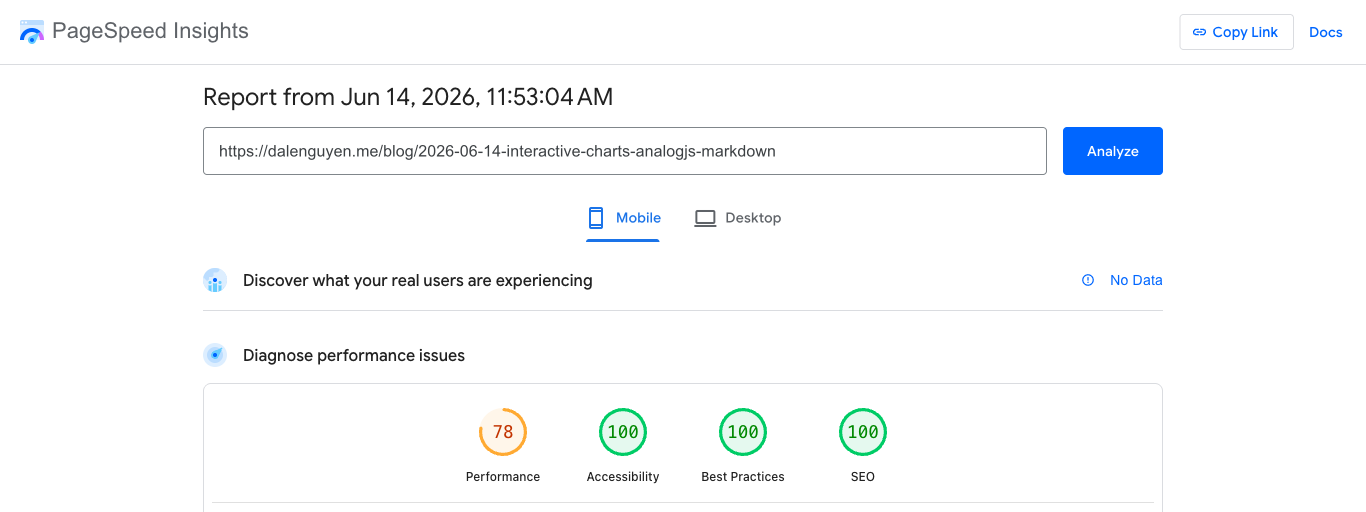
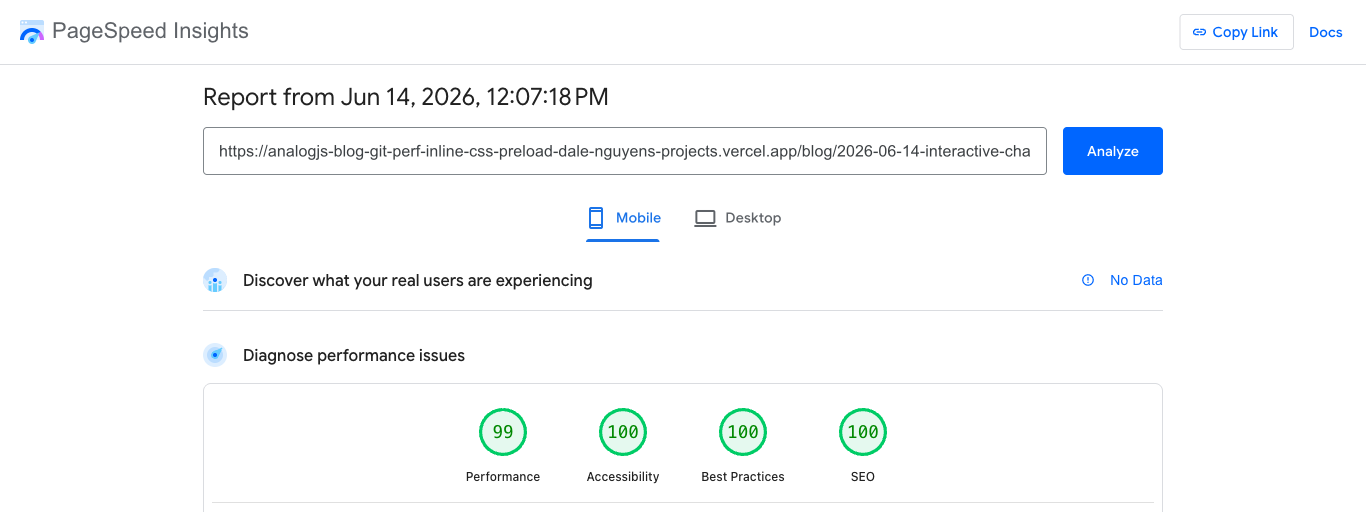
perf(blog): inline global CSS + preload LCP cover image (#170)
* perf(blog): inline global CSS + preload LCP cover image

Critical-path tuning in postRenderingHooks (no new deps):
- Inline the global stylesheet (~9 KB brotli) as a <style>, removing the only
  render-blocking CSS request — one fewer RTT before first paint on slow mobile.
  Falls back to the external <link> if the asset can't be read at prerender time.
- Preload the LCP cover image (first <picture>) in <head> so the fetch starts
  during head parse, not after the body. Prefers the WebP <source>; uses the
  <img> src for external/non-WebP covers. Only injected when a cover exists.

Verified: prerendered pages have 0 render-blocking stylesheet links + an inline
<style>; post pages carry an image preload; non-cover pages get none; the page
renders fully styled (no FOUC).

* docs(blog): mobile 99 — document the inline-CSS + image-preload round

Preview/prod confirmed mobile Performance 78 -> 99 after inlining the CSS and
preloading the LCP image (FCP 2.1s -> 0.9s, LCP 4.8s -> 1.4s). Update the mobile
after-gauge + table to 99, add the inline-CSS/preload section, refresh the CWV
table and summary, and reframe: there was no framework ceiling — the mobile gap
was a render-blocking CSS round-trip and a late-discovered image.

---------

Pull request: perf(blog): inline global CSS + preload LCP cover image
Final mobile lever after #167 (zoneless) and #168 (WebP). Prod mobile was **78**, bounded by LCP ~4.8s — driven by the render-blocking CSS request + late image discovery, not bytes.

Stepping back: the global CSS is only **~9 KB brotli** (already Tailwind-purged), so classic critical-CSS *extraction* (beasties/critters) is overkill + FOUC-risk. Instead, in `postRenderingHooks` (no new deps):
- **Inline the global stylesheet** as `<style>` — removes the only render-blocking CSS request (one fewer RTT before first paint). Falls back to the external `<link>` if the asset can't be read.
- **Preload the LCP cover image** in `<head>` (prefers the WebP `<source>`; `<img>` src for external covers) so the fetch starts during head parse.

Verified on the build: 0 render-blocking stylesheet links, inline `<style>` present, post pages carry an image preload, non-cover pages get none, page renders fully styled (no FOUC).

Will confirm the mobile LCP/Performance gain on the preview before merge.

🤖 Generated with [Claude Code](https://claude.com/claude-code)

Changed region(s): [[0.1845, 0.2812, 0.7687, 0.3125], [0.3382, 0.7812, 0.3997, 0.9062], [0.369, 0.1562, 0.4612, 0.2188]]

diff --git a/apps/blog-app/vite.config.ts b/apps/blog-app/vite.config.ts
@@ -3,11 +3,63 @@
 import analog, { type PrerenderContentFile } from '@analogjs/platform'
 import { nxViteTsPaths } from '@nx/vite/plugins/nx-tsconfig-paths.plugin'
 import { PrerenderRoute } from 'nitropack'
+import { existsSync, readFileSync } from 'node:fs'
 import { join } from 'node:path'
 import { defineConfig } from 'vite'
 import { learnManifestPlugin } from './src/plugins/learn-manifest.plugin'
 
 const learnDir = join(__dirname, '../../libs/portfolio/shared/learn')
+
+// Candidate roots that hold the built client assets at prerender time.
+const clientAssetDirs = [
+  join(__dirname, '../../dist/apps/blog-app/client'),
+  join(__dirname, '../../.vercel/output/static'),
+]
+const inlineCssCache = new Map<string, string>()
+
+function readClientAsset(href: string): string | null {
+  for (const base of clientAssetDirs) {
+    const p = join(base, href)
+    if (existsSync(p)) return readFileSync(p, 'utf-8')
+  }
+  return null
+}
+
+// Critical-path tuning applied to every prerendered page:
+//  1. Inline the global stylesheet — it's tiny (~9 KB brotli), so removing the
+//     extra render-blocking request (one RTT on slow mobile) beats keeping it
+//     external. Falls back to leaving the <link> if the asset can't be read.
+//  2. Preload the LCP cover image (first <picture>) so the browser starts the
+//     fetch during head parse instead of after reaching the <img> in the body.
+//     Prefers the WebP <source>; uses the <img> src for external/non-WebP covers.
+function tuneCriticalPath(html: string): string {
+  html = html.replace(
+    /<link[^>]*rel="stylesheet"[^>]*href="(\/assets\/[^"]+\.css)"[^>]*>/g,
+    (tag: string, href: string) => {
+      let css = inlineCssCache.get(href)
+      if (css === undefined) {
+        css = readClientAsset(href) ?? ''
+        inlineCssCache.set(href, css)
+      }
+      return css ? `<style>${css}</style>` : tag
+    },
+  )
+
+  const picture = html.match(/<picture>[\s\S]*?<\/picture>/)
+  if (picture && html.includes('</head>')) {
+    const block = picture[0]
+    const webp = block.match(/<source[^>]*type="image\/webp"[^>]*srcset="([^"]+)"/)
+    const img = block.match(/<img[^>]*\ssrc="([^"]+)"/)
+    let preload = ''
+    if (webp) {
+      preload = `<link rel="preload" as="image" type="image/webp" imagesrcset="${webp[1]}" fetchpriority="high">`
+    } else if (img) {
+      preload = `<link rel="preload" as="image" href="${img[1]}" fetchpriority="high">`
+    }
+    if (preload) html = html.replace('</head>', `${preload}</head>`)
+  }
+  return html
+}
 
 // https://vitejs.dev/config/
 export default defineConfig(({ mode }) => {
@@ -104,6 +156,9 @@ export default defineConfig(({ mode }) => {
               </script>
             `
                     route.contents = route.contents?.concat(gTag)
+                    if (route.contents) {
+                      route.contents = tuneCriticalPath(route.contents)
+                    }
                   },
                 ],
                 sitemap: {

diff --git a/apps/blog-app/src/content/2026-06-14-all-green-lighthouse-analogjs-blog.md b/apps/blog-app/src/content/2026-06-14-all-green-lighthouse-analogjs-blog.md
@@ -42,8 +42,8 @@ Mobile — before, then after:
 </figure>
 
 <figure>
-  <img src="assets/images/blog/all-green-lighthouse-pagespeed-after-mobile.png" alt="PageSpeed Insights mobile report after optimization: Performance 78, Accessibility 100, Best Practices 100, SEO 100" width="100%" height="auto" />
-  <figcaption>Mobile, after: 78 Performance / 100 Accessibility / 100 Best Practices / 100 SEO.</figcaption>
+  <img src="assets/images/blog/all-green-lighthouse-pagespeed-after-mobile.png" alt="PageSpeed Insights mobile report after optimization: Performance 99, Accessibility 100, Best Practices 100, SEO 100" width="100%" height="auto" />
+  <figcaption>Mobile, after: 99 Performance / 100 Accessibility / 100 Best Practices / 100 SEO.</figcaption>
 </figure>
 
 | PageSpeed (Google-hosted Lighthouse) | Performance | Accessibility | Best Practices | SEO |
@@ -51,9 +51,9 @@ Mobile — before, then after:
 | Desktop — before | 91 | 90 | 100 | 92 |
 | Desktop — after | **99** | **100** | 100 | **100** |
 | Mobile — before | 59 | 90 | 100 | 92 |
-| Mobile — after | **78** | **100** | 100 | **100** |
+| Mobile — after | **99** | **100** | 100 | **100** |
 
-Two things stand out. **Accessibility and SEO both reached 100 here too**, confirming the contrast, label, and `robots.txt` fixes hold on Google's infrastructure — not just on my localhost run. And **mobile Performance climbed 59 → 78**: deferring third-party JS got it to 66, going **zoneless** took it to 77 (Total Blocking Time down to ~20 ms — the big jump), and serving **WebP cover images** trimmed LCP for the final point. What's left holding mobile in the high-70s is LCP at ~4.8 s — no longer the framework or image bytes, but render-blocking CSS and image-discovery timing on Slow 4G. (Desktop landed at 99; all figures measured on the deployed production site.)
+Two things stand out. **Accessibility and SEO both reached 100 here too**, confirming the contrast, label, and `robots.txt` fixes hold on Google's infrastructure — not just on my localhost run. And **mobile Performance climbed 59 → 99**, in stages: deferring third-party JS got it to 66, going **zoneless** took it to 77 (Total Blocking Time down to ~20 ms), **WebP covers** nudged it to 78, and finally **inlining the CSS + preloading the cover image** collapsed FCP (2.1 s → 0.9 s) and LCP (4.8 s → 1.4 s) to land at **99**. The last step was the surprise: the real mobile bottleneck was never the framework or image bytes — it was the render-blocking CSS round-trip and late image discovery on Slow 4G. (Desktop sits at 99/100/100/100; all figures measured on the deployed production site.)
 
 One more subtlety: **the same page scores differently depending on which Lighthouse build runs it.** PageSpeed Insights (Google-hosted) reports Best Practices 100 and has no "Agentic Browsing" category. The newer Lighthouse bundled in Chrome DevTools — which I used for the per-fix breakdown below — adds Agentic Browsing and weights the third-party-cookie issue far more harshly, so it scored the *same* page Best Practices 77 and Agentic Browsing 33. I optimized against the stricter build, so the fixes satisfy both.
 
@@ -307,18 +307,34 @@ This is safe only if the app is signal- and event-driven: any view that refreshe
 
 The WebP source is **root-relative** on purpose: a `<source>` does not fall back to the `<img>` on a 404, so an absolute prod URL would break the hero on preview builds. Across 25 covers this cut **12.2 MB → 0.9 MB (~92%)** — the interactive-charts cover went 92 KB → 36 KB — taking mobile LCP from 5.8 s to ~4.8 s and Performance to **78**.
 
+**Inline the CSS + preload the LCP image — the step that actually broke the ceiling.** Mobile was stuck in the high-70s with LCP ~4.8 s. I assumed I'd need classic *critical-CSS extraction* (inline above-the-fold, async the rest). Measuring first saved the effort: the entire stylesheet is only **~9 KB brotli**, already Tailwind-purged. So extraction was pointless — the cost wasn't bytes, it was the extra **render-blocking request** (a full round-trip on Slow 4G) plus discovering the cover image late. Two small `postRenderingHooks` fixed both:
+
+```ts
+// 1) Swap the render-blocking <link> for an inline <style> (no extra request)
+html = html.replace(/<link[^>]*rel="stylesheet"[^>]*href="(\/assets\/[^"]+\.css)"[^>]*>/g,
+  (tag, href) => { const css = readClientAsset(href); return css ? `<style>${css}</style>` : tag })
+
+// 2) Preload the cover (first <picture>) so it fetches during head parse
+//    <link rel="preload" as="image" type="image/webp" imagesrcset="…" fetchpriority="high">
+```
+
+The effect on mobile was dramatic: **FCP 2.1 s → 0.9 s**, **LCP 4.8 s → 1.4 s**, and Performance **78 → 99**. The lesson: don't reach for the heavy tool (critical-CSS extraction) before measuring — for a small stylesheet, inlining the whole thing is simpler and just as effective.
+
 **Core Web Vitals (lab measurements, deployed production site):**
 
 | Metric | Before | After |
 |---|---|---|
-| LCP (desktop) | 194 ms | 102 ms |
+| Mobile Performance | 59 | **99** |
+| FCP (mobile) | 2.1 s | **0.9 s** |
+| LCP (mobile) | 4.8 s | **1.4 s** |
 | Total Blocking Time (mobile) | — | **~20 ms** |
 | Cover image (LCP element) | 92 KB PNG | **36 KB WebP** |
 | Eager JS on the post | 658 KB | **583 KB** |
+| Render-blocking CSS requests | 1 | **0** |
 | CLS | 0.00 | 0.00 |
 | 3rd-party scripts on initial load | 4 (GA + Clarity + Logichat + Giscus) | **0** |
 
-CLS was 0.00 throughout and did not need fixing. With zone.js, the third-party scripts, and the PNG cover all off the critical path, mobile Performance settled at **78**; the remaining gap to the 90s is **LCP at ~4.8 s** — now bounded by render-blocking CSS and image-discovery timing on Slow 4G, not by the framework or image bytes. Critical-CSS inlining is the next lever.
+CLS was 0.00 throughout. The combined effect — zoneless framework, zero third-party on load, WebP covers, inlined CSS, preloaded LCP image — took **mobile from 59 to 99**, matching desktop's 99/100/100/100. There was no real "framework ceiling"; the mobile gap was a render-blocking CSS round-trip and a late-discovered image all along.
 
 ---
 
@@ -334,5 +350,6 @@ Eight failing audits across four Lighthouse categories, now zero. The fixes in r
 6. **Lazy-load Giscus + `fetchpriority` on LCP image** — zero third-party scripts on initial load, LCP stays green.
 7. **Zoneless change detection + trim the eager bundle** (drop `zone.js`, inline-SVG icons instead of Angular Material, lazy Sentry) — mobile Performance 66 → 77, eager JS 658 → 583 KB, TBT ~20 ms.
 8. **WebP cover images via `<picture>`** — covers 92% smaller (12.2 MB → 0.9 MB), mobile 77 → 78, LCP 5.8 s → ~4.8 s.
+9. **Inline the global CSS + preload the LCP image** — FCP 2.1 s → 0.9 s, LCP 4.8 s → 1.4 s, mobile Performance 78 → **99**.
 
-Most of the audit fixes were small and surgical; the one structural change — going zoneless — was the biggest single mobile win (TBT to ~20 ms). The most *thinking* went into understanding why scroll deferral does not work for analytics (audit tools auto-scroll). Mobile finished at **78** on the deployed site, with the remaining ceiling being render-blocking CSS / LCP timing — a critical-CSS round, not the framework.
+The audit fixes were small and surgical; going zoneless was the biggest single TBT win; but the real surprise was the last step — **mobile 78 → 99 from inlining a 9 KB stylesheet and preloading one image**. The recurring lesson: *measure before reaching for the heavy tool.* Scroll-gated deferral failed because audit tools auto-scroll; critical-CSS extraction was unnecessary because the CSS was tiny. The page that started at 90/77/92/33 desktop now sits at **99/100/100/100 on both desktop and mobile**.